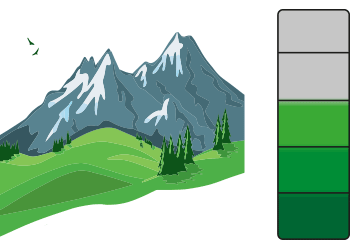
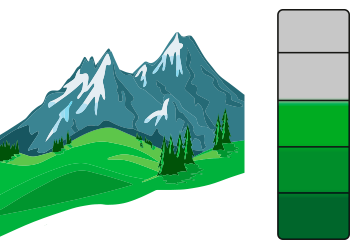
gestión del nivel y mostrar imagenes de nivel

diff --git a/reactNative/src/components/nivel.js b/reactNative/src/components/nivel.js
@@ -2,24 +2,41 @@ import React, { Component } from "react";
 import { StyleSheet, Text, Image, View } from "react-native";
 
 export default class Nivel extends Component {
+  calculaNivel = () => {
+    const media = (this.props.nivel / this.props.puntosTotal) * 100;
+    if (media < 5) {
+      return 0;
+    } else if (media < 20) {
+      return 1;
+    } else if (media < 40) {
+      return 2;
+    } else if (media < 60) {
+      return 3;
+    } else if (media < 90) {
+      return 4;
+    } else {
+      return 5;
+    }
+  };
+
   render() {
     const imagenes = {
-      3: require("../../assets/residuos_3.png"),
-      2: require("../../assets/residuos_2.png"),
-      1: require("../../assets/residuos_1.png"),
-      0: require("../../assets/residuos_0.png")
+      5: require("../../assets/nivel_5.png"),
+      4: require("../../assets/nivel_4.png"),
+      3: require("../../assets/nivel_3.png"),
+      2: require("../../assets/nivel_2.png"),
+      1: require("../../assets/nivel_1.png"),
+      0: require("../../assets/nivel_0.png")
     };
 
     return (
       <View style={style.container}>
         <Text style={{ color: "white" }}>Nivel</Text>
-        <Text style={{ color: "white" }}>{this.props.nivel}</Text>
+        <Image style={style.icono} source={imagenes[this.calculaNivel()]} />
       </View>
     );
   }
 }
-
-//<Image style={style.icono} source={imagenes[this.props.residuos]} />
 
 const style = StyleSheet.create({
   container: {
@@ -28,5 +45,5 @@ const style = StyleSheet.create({
     marginTop: 30,
     alignItems: "center"
   },
-  icono: { width: 80, height: 60 }
+  icono: { width: 70, height: 20 }
 });

diff --git a/reactNative/Accion.js b/reactNative/Accion.js
@@ -38,24 +38,16 @@ class Accion extends Component {
           navigation={this.props.navigation}
           completadas={this.props.completadas}
           total={this.props.navigation.getParam("total")}
+          puntosTotal={this.props.navigation.getParam("puntosTotal")}
         />
         <View style={{ flex: 1 }}>
           <Text style={style.titulo}>{titulo}</Text>
           <Text style={style.texto}>{texto}</Text>
-          <Text style={style.texto}>
-            {JSON.stringify(this.props.completadas)}
-          </Text>
 
           {id in this.props.completadas ? (
             <TouchableOpacity
               onPress={() =>
-                this.props.meVuelvo(
-                  id,
-                  energia,
-                  residuos,
-                  dificultad,
-                  this.props.navigation.getParam("total")
-                )
+                this.props.meVuelvo(id, energia, residuos, dificultad)
               }
             >
               <Image style={style.icono} source={require("./assets/no.png")} />
@@ -63,13 +55,7 @@ class Accion extends Component {
           ) : (
             <TouchableOpacity
               onPress={() =>
-                this.props.mePaso(
-                  id,
-                  energia,
-                  residuos,
-                  dificultad,
-                  this.props.navigation.getParam("total")
-                )
+                this.props.mePaso(id, energia, residuos, dificultad)
               }
             >
               <Image style={style.icono} source={require("./assets/ok.png")} />

diff --git a/reactNative/Acciones.js b/reactNative/Acciones.js
@@ -14,12 +14,23 @@ class ListaAcciones extends Component {
   componentDidMount() {
     this.props.getAcciones();
   }
+
+  puntosTotal = () => {
+    // sumamos (resisduos + energia + dificultad) de cada acción y devolvemos array suma2
+    const suma = this.props.acciones.map(
+      x => parseInt(x.residuos) + parseInt(x.energia) + parseInt(x.dificultad)
+    );
+    // sumamos y devolvemos las sumas de cada acción
+    return suma.reduce((a, b) => a + b, 0);
+  };
+
   renderItem = ({ item }) => (
     <TouchableHighlight
       onPress={() => {
         this.props.navigation.navigate("Acción", {
           id: item.id,
-          total: Object.keys(this.props.acciones).length
+          total: Object.keys(this.props.acciones).length,
+          puntosTotal: this.puntosTotal()
         });
       }}
     >
@@ -31,14 +42,17 @@ class ListaAcciones extends Component {
   );
   render() {
     const { acciones } = this.props;
+
     return (
       <View style={styles.container}>
         <Cabecera
           nivel={this.props.nivel}
           navigation={this.props.navigation}
           completadas={this.props.completadas}
-          total={Object.keys(this.props.acciones).length}
+          total={Object.keys(acciones).length}
+          puntosTotal={this.puntosTotal()}
         />
+
         <FlatList
           styles={styles.container}
           data={acciones}

diff --git a/reactNative/src/store/reducers/localReducer.js b/reactNative/src/store/reducers/localReducer.js
@@ -1,7 +1,6 @@
 const initialState = {
   completadas: { 0: { co2: 0, res: 0, dif: 0 } },
-  nivel: 0,
-  total: 0
+  nivel: 0
 };
 
 export default function localReducer(state = initialState, action) {
@@ -18,9 +17,10 @@ export default function localReducer(state = initialState, action) {
           }
         },
         nivel:
-          ((action.co2 + action.res + action.dif) / (action.total * 9)) * 100,
-
-        total: action.total
+          parseInt(state.nivel) +
+          parseInt(action.co2) +
+          parseInt(action.res) +
+          parseInt(action.dif)
       };
     case "mevuelvo":
       const { [action.id]: value, ...nuevoArray } = state.completadas;
@@ -29,8 +29,7 @@ export default function localReducer(state = initialState, action) {
         completadas: {
           ...nuevoArray
         },
-        nivel:
-          ((action.co2 + action.res + action.dif) / (action.total * 9)) * 100
+        nivel: state.nivel - action.co2 - action.res - action.dif
       };
     default:
       return state;

diff --git a/reactNative/src/store/actions.js b/reactNative/src/store/actions.js
@@ -51,24 +51,22 @@ export const getAccion = id => {
   };
 };
 
-export const mePaso = (id, co2, residuos, dificultad, total) => {
+export const mePaso = (id, co2, residuos, dificultad) => {
   return {
     type: "mepaso",
     id: id,
     co2: co2,
     res: residuos,
-    dif: dificultad,
-    total: total
+    dif: dificultad
   };
 };
 
-export const meVuelvo = (id, co2, residuos, dificultad, total) => {
+export const meVuelvo = (id, co2, residuos, dificultad) => {
   return {
     type: "mevuelvo",
     id: id,
     co2: co2,
     res: residuos,
-    dif: dificultad,
-    total: total
+    dif: dificultad
   };
 };

diff --git a/reactNative/src/components/cabecera.js b/reactNative/src/components/cabecera.js
@@ -15,7 +15,7 @@ export default class Cabecera extends Component {
           completadas={this.props.completadas}
           total={this.props.total}
         />
-        <Nivel nivel={this.props.nivel} />
+        <Nivel nivel={this.props.nivel} puntosTotal={this.props.puntosTotal} />
       </View>
     );
   }
